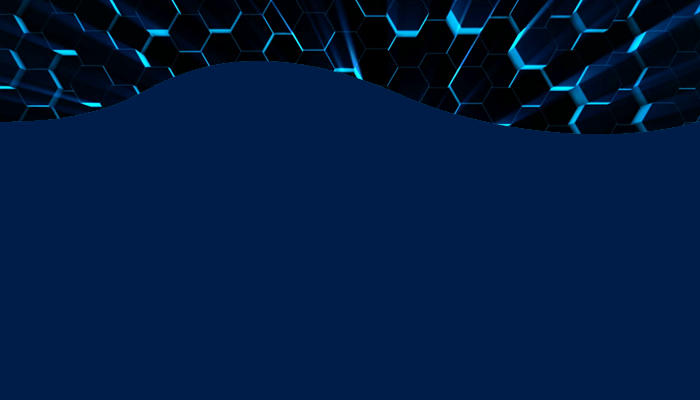
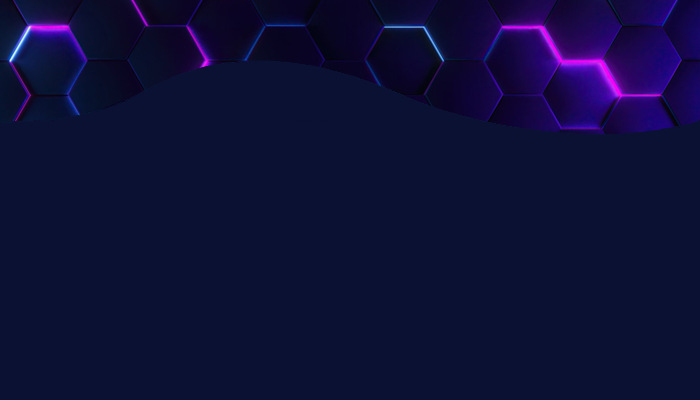
29.01.2022

Changed region(s): [[0.0, 0.0, 1.0, 0.36]]

diff --git a/lp.css b/lp.css
@@ -41,14 +41,14 @@
     display: flex;
     justify-content: center;
     align-items: center;
-    /*background:linear-gradient(0deg, rgba(255, 255, 255, 0.1), rgba(255, 255, 255, 0.1)), url('poze/fundalproba.jpg');*/
-    background-image: url('poze/fundalproba.jpg');
+    background:linear-gradient(0deg, rgba(255, 255, 255, 0.295), rgba(255, 255, 255, 0.808)), url('poze/fundalproba.jpg');
+    /*background-image: url('poze/fundalproba.jpg');*/
     background-size: cover;
   }
 
   .loader img{
     height: 20%;
-    filter:brightness(0) invert(1) ;
+    /*filter:brightness(0) invert(1) ;*/
   }
   
   .disappear{
@@ -106,12 +106,15 @@
   }
 
   .modal-content{
-    width: 600px;
-    height: 350px;
+    width: 700px;
+    height: 400px;
     background-image: url('poze/faque.png');
     border-radius: 15px;
     text-align: center;
+    box-shadow: 0px 3px 15px 3px rgba(232, 5, 236, 0.863);
     position: relative;
+    backface-visibility: hidden;
+    -webkit-backface-visibility: hidden;
   }
 
   .modal-content img{
@@ -121,11 +124,46 @@
 
   .modal-content input{
     width: 50%;
-    height: 25px;
     display:block;
     margin: 15px auto;
-    color:#03396c;
+    color:#143366;
   }
+
+  .bg-modal form{
+    margin-top: 140px;
+  }
+
+  .card__inner{
+    width: 100%;
+    height: 100%;
+    transition: transform 1s;
+    transform-style: preserve-3d;
+    position: relative;
+  }
+
+  .card__inner.is-flipped{
+    transform: rotateY(180deg);
+  }
+
+  .modal-content-front{
+    display:flex;
+    align-items: center;
+    justify-content: center;
+    margin:0 auto;
+    margin-top: 300px;
+    
+  }
+
+  .modal-content-back{
+    display: flex;
+    align-items: center;
+    justify-content: center;
+    transform:rotateY(180deg);
+  }
+
+
+  
+
 
   .close{
     position: absolute;
@@ -140,18 +178,130 @@
 
   .submit{
     border-radius: 10px;
-    background-color:#03396c;
+    background-color:#143366;
     color:white;
     height: 30px;
     padding:8px;
-    margin-top:30px;
+    margin-top:20px;
   }
 
-  .butonas{
-    font-family: 'Cairo', sans-serif;
-    font-size: 20px;
-    color:#ff0895;
+  .login-box .user-box label {
+    position: absolute;
+    top:0;
+    left: 0;
+    padding: 10px 0;
+    font-size: 15px;
+    color: #fff;
+    pointer-events: none;
+    transition: .5s;
   }
+  
+  .login-box a {
+    font-family: 'Cairo', sans-serif;
+    font-size: 15px;
+    color:#e805ec;
+    position: relative;
+    display: inline-block;
+    padding: 8px 10px;
+    text-decoration: none;
+    text-transform: uppercase;
+    overflow: hidden;
+    transition: 1s;
+    margin-top: 25px;
+    letter-spacing: 4px;
+    cursor:pointer;
+  }
+  
+  .login-box a:hover {
+    background: #e805ec;
+    color: #fff;
+    border-radius: 5px;
+    box-shadow: 0 0 1px #e805ec, 
+                0 0 5px #e805ec,
+                0 0 10px #e805ec,
+                0 0 20px #e805ec;
+  }
+  
+  .login-box a span {
+    position: absolute;
+    display: block;
+  }
+  
+  .login-box a span:nth-child(1) {
+    top: 0;
+    left: -100%;
+    width: 100%;
+    height: 2px;
+    background: linear-gradient(90deg, transparent, #e805ec);
+    animation: btn-anim1 2s linear infinite;
+  }
+  
+  @keyframes btn-anim1 {
+    0% {
+      left: -100%;
+    }
+    50%,100% {
+      left: 100%;
+    }
+  }
+  
+  .login-box a span:nth-child(2) {
+    top: -100%;
+    right: 0;
+    width: 2px;
+    height: 100%;
+    background: linear-gradient(180deg, transparent, #e805ec);
+    animation: btn-anim2 2s linear infinite;
+    animation-delay: .5s
+  }
+  
+  @keyframes btn-anim2 {
+    0% {
+      top: -100%;
+    }
+    50%,100% {
+      top: 100%;
+    }
+  }
+  
+  .login-box a span:nth-child(3) {
+    bottom: 0;
+    right: -100%;
+    width: 100%;
+    height: 2px;
+    background: linear-gradient(270deg, transparent, #e805ec);
+    animation: btn-anim3 2s linear infinite;
+    animation-delay: 1s
+  }
+  
+  @keyframes btn-anim3 {
+    0% {
+      right: -100%;
+    }
+    50%,100% {
+      right: 100%;
+    }
+  }
+  
+  .login-box a span:nth-child(4) {
+    bottom: -100%;
+    left: 0;
+    width: 2px;
+    height: 100%;
+    background: linear-gradient(360deg, transparent, #e805ec);
+    animation: btn-anim4 2s linear infinite;
+    animation-delay: 1.5s
+  }
+  
+  @keyframes btn-anim4 {
+    0% {
+      bottom: -100%;
+    }
+    50%,100% {
+      bottom: 100%;
+    }
+  }
+
 
   /*-------------------------------------------MENIU--------------------------------------------*/  
   .header{

diff --git a/index.html b/index.html
@@ -682,20 +682,28 @@
 
     <!--Pop-up buton papagal-->
     <div class="bg-modal hide-on-mobile">
-      <div class="modal-content">
-        <div class="close">+</div>
-        <!--<img src="poze/papagal-icon.png" alt="">-->
+      <div class="card__inner">
+        <div class="modal-content modal-content-front">
+          <div class="close">+</div>
+          <!--<img src="poze/papagal-icon.png" alt="">-->
 
-        <form action="https://docs.google.com/forms/u/0/d/e/1FAIpQLSe0viFPe07UTCbqztQ9-Buf7td358A8I4sYsvLvAJEfi5mNkQ/formResponse" method="post" target="hidden_iframe" onsubmit="submitted=true">
+          <form action="https://docs.google.com/forms/u/0/d/e/1FAIpQLSe0viFPe07UTCbqztQ9-Buf7td358A8I4sYsvLvAJEfi5mNkQ/formResponse" method="post" target="hidden_iframe" onsubmit="submitted=true">
 
-          <input  type="text" name="entry.19465840" placeholder="Nume complet" style="font-family:'Cairo',sans-serif; width:400px;">
+            <input  type="text" name="entry.19465840" placeholder="Nume complet" style="font-family:'Cairo',sans-serif; width:400px;">
 
-          <input  type="text" name="entry.1643600763" placeholder="Intrebarea ta" style="font-family:'Cairo',sans-serif; width:400px;">
+            <input  type="text" name="entry.1643600763" placeholder="Intrebarea ta" style="font-family:'Cairo',sans-serif; width:400px;">
 
-          <input  type="submit" name="submit" value="Trimite" style="font-family: 'Cairo',sans-serif; width: 100px; color:white; background-color: #254a94; cursor:pointer;">
-          <a href="#" class="butonas">Întrebări frecvente</a>
-        </form>
+            <input  type="submit" name="submit" value="Trimite" style="font-family: 'Cairo',sans-serif; width: 100px; color:white; background-color: #254a94; cursor:pointer;">
+            <div class="login-box">
+              <a class="flip"> <span></span> <span></span> <span></span> <span></span>Întrebări frecvente</a>
+            </div>
+          </form>
+        </div>
 
+        <div class="modal-content modal-content-back">
+          <h2>Intrebari si Raspunsuri</h2>
+          <h2>Va urma...</h2>
+        </div>
       </div>
     </div>
 

diff --git a/jss/papagal.js b/jss/papagal.js
@@ -8,11 +8,13 @@ document.querySelector('.close').addEventListener('click',function(){
 });
 
 
-document.getElementById('butonas2').addEventListener('click',function(){
-  document.querySelector('.bg-modal2').style.display='flex';
+//document.getElementById('.login-box').addEventListener('click',function(){
+//  document.querySelector('card__inner')
+ // card.classList.toggle('is-flipped');
+//});
 
-});
+const card=document.querySelector('.card__inner');
 
-document.querySelector('.close2').addEventListener('click',function(){
-  document.querySelector('.bg-modal2').style.display="none";
+card.addEventListener('click', function(){
+  card.classList.togglet('is-flipped');
 });
